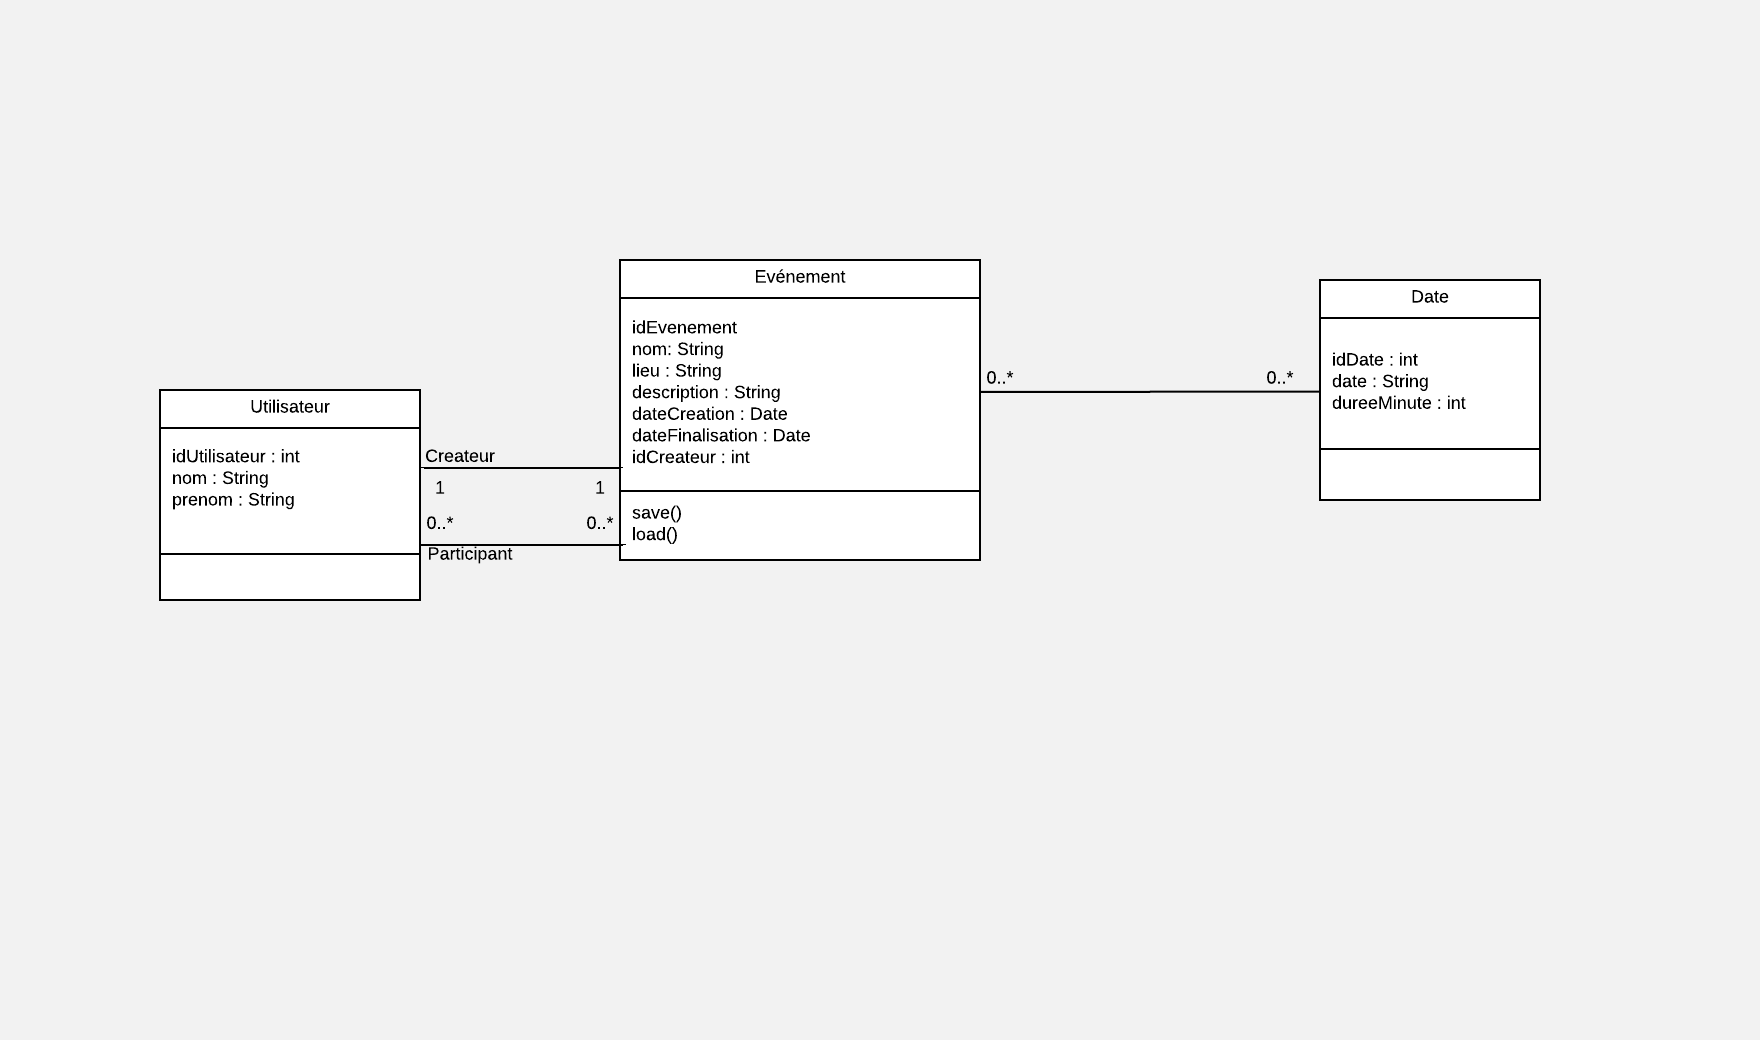
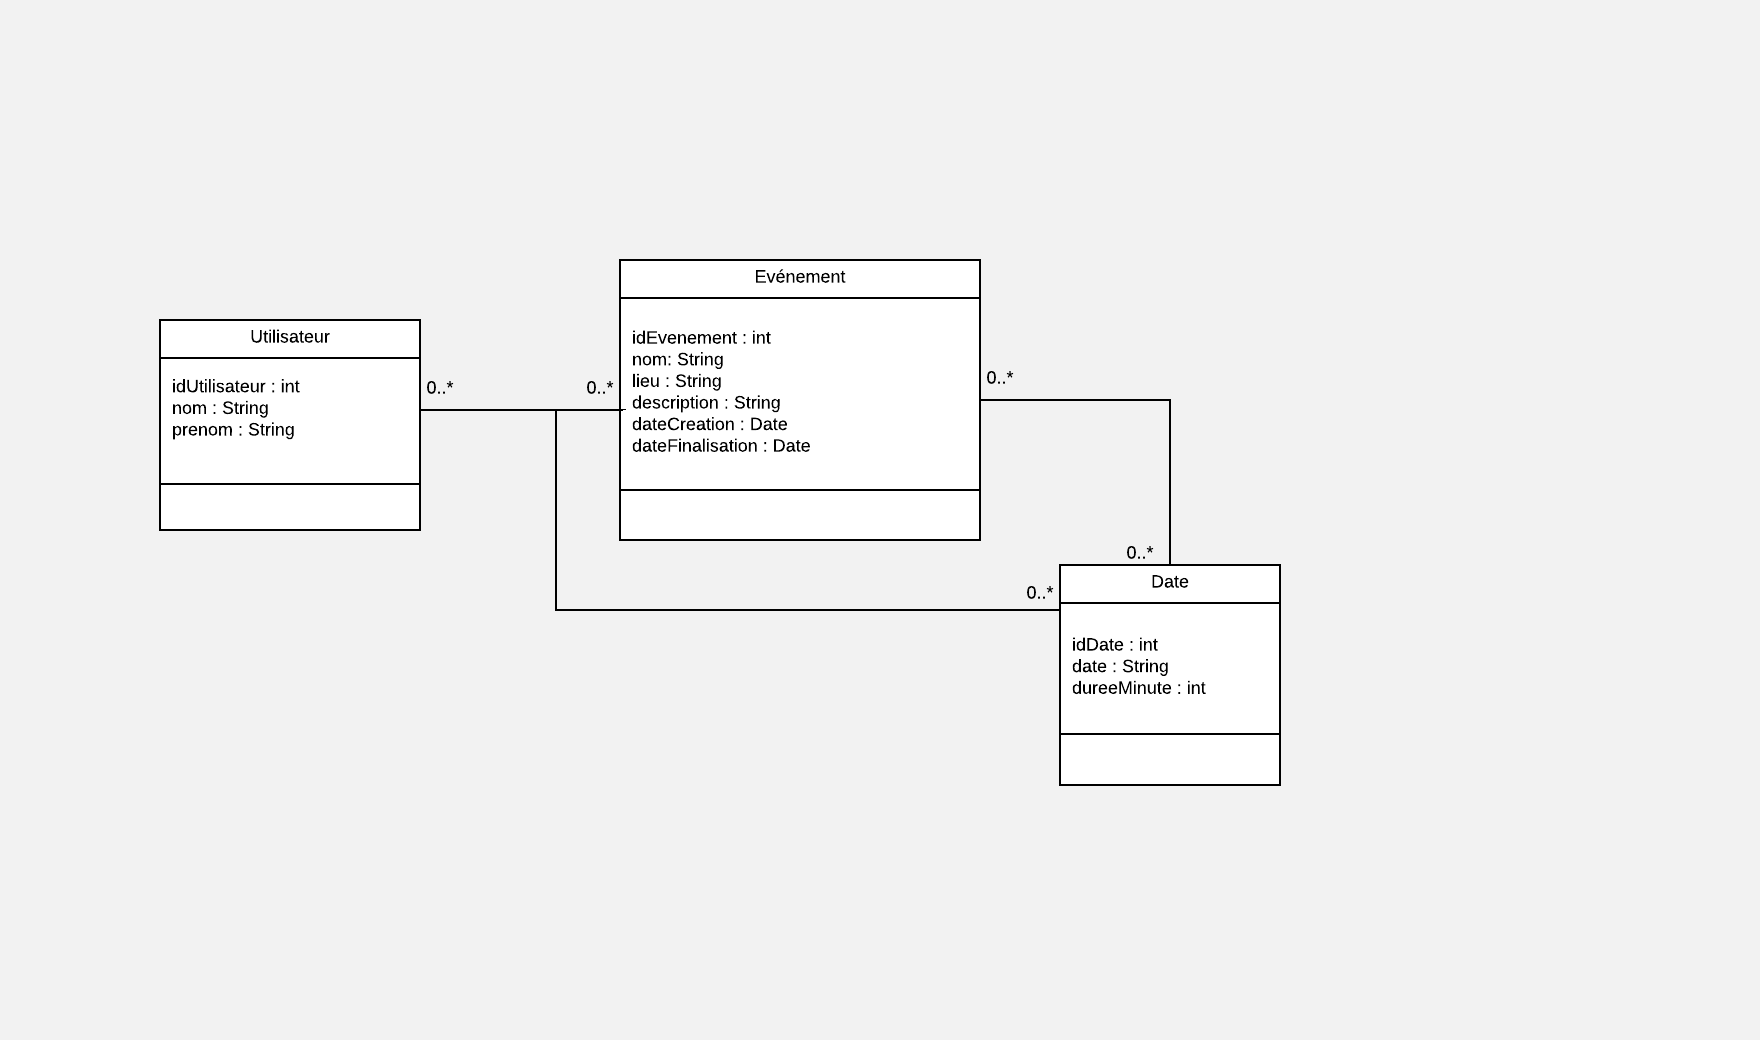
ajout classe envoyeurevenement

diff --git a/serveur/src/main/java/fr/univtln/ancyen/doodle/App.java b/serveur/src/main/java/fr/univtln/ancyen/doodle/App.java
@@ -1,8 +1,11 @@
 package fr.univtln.ancyen.doodle;
 
+import fr.univtln.ancyen.doodle.Modele.Evenement;
+import fr.univtln.ancyen.doodle.Modele.Vote;
 import java.io.IOException;
+import java.io.ObjectInputStream;
+import java.io.ObjectOutputStream;
 import java.net.InetSocketAddress;
-import java.nio.ByteBuffer;
 import java.nio.channels.SelectionKey;
 import java.nio.channels.Selector;
 import java.nio.channels.ServerSocketChannel;
@@ -13,9 +16,10 @@ import java.util.Set;
 
 public class App
 {
-    public static void main( String[] args ) throws IOException {
-        // creation bdd h2
+    private static EnvoyeurEvenement envoyeurEvenement = new EnvoyeurEvenement();
 
+    public static void main( String[] args ) throws IOException, ClassNotFoundException {
+        // creation bdd h2
 
         // creation sélecteur
         Selector selector = Selector.open();
@@ -23,10 +27,10 @@ public class App
         // creation socket et binding avec addresse
         ServerSocketChannel serverSockect = ServerSocketChannel.open();
         String hostname = "localhost";
-        int port = 4242;
+        int port = 5625;
         InetSocketAddress address = new InetSocketAddress(hostname, port);
         serverSockect.bind(address);
-        System.out.println("Serveur lancé sur le port "+port);
+        System.out.println("Serveur lancé sur le port " + port);
 
         // on met le channel en mode non-bloquant
         serverSockect.configureBlocking(false);
@@ -38,17 +42,17 @@ public class App
         SelectionKey selectionKey = serverSockect.register(selector, validops);
 
         boolean server_running = true;
-        while (server_running){
+        while (server_running) {
 
             // on crée l'ensemble des opérations en attente
             Set<SelectionKey> selectionKeys = selector.selectedKeys();
             Iterator<SelectionKey> selectionKeyIterator = selectionKeys.iterator();
 
             // on fait une boucle pour traiter toutes les ops en attente
-            while(selectionKeyIterator.hasNext()){
+            while (selectionKeyIterator.hasNext()) {
                 SelectionKey key = selectionKeyIterator.next();
 
-                if (key.isAcceptable()){
+                if (key.isAcceptable()) {
                     SocketChannel clientSocket = serverSockect.accept();
 
                     // non bloquant
@@ -57,22 +61,26 @@ public class App
                     // on l'enregistre avec une action valide de lecture
                     clientSocket.register(selector, SelectionKey.OP_READ);
                     System.out.println("Connexion aceptée: " + clientSocket.getLocalAddress());
-                }
-
-                else if (key.isReadable()){
+                } else if (key.isReadable()) {
                     SocketChannel clientSockect = (SocketChannel) key.channel();
+                    ObjectInputStream ois = new ObjectInputStream(clientSockect.socket().getInputStream());
+                    ObjectOutputStream oos = new ObjectOutputStream(clientSockect.socket().getOutputStream());
 
-                    // on crée un buffer puis on recupere dans un String
-                    ByteBuffer byteBuffer = ByteBuffer.allocate(256);
-                    clientSockect.read(byteBuffer);
-                    String result = new String(byteBuffer.array()).trim();
+                    // on switch en fonction du premier string
+                    String s = (String) ois.readObject();
 
-                    System.out.println("Message reçu: " + result);
-
-                    if (result.equals("close")) {
-                        clientSockect.close();
-                        System.out.println("Connexion fermée: " + clientSockect.getLocalAddress());
+                    if (s.equals("getEvenement") {
+                            envoyeurEvenement.send(oos, ois.readInt());
+                            }
+                    else if (s.equals("addEvenement") {
+                            evenementDAO.create((Evenement) ois.readObject());
+                        }
+                    else if (s.equals("addVote") {
+                            voteDAO.create((Vote) ois.readObject());
+                        }
                     }
+                    clientSockect.close();
+                    System.out.println("Connexion fermée: " + clientSockect.getLocalAddress());
                 }
             }
         }

diff --git a/serveur/src/main/java/fr/univtln/ancyen/doodle/Modele/Evenement.java b/serveur/src/main/java/fr/univtln/ancyen/doodle/Modele/Evenement.java
@@ -1,34 +1,37 @@
 package fr.univtln.ancyen.doodle.Modele;
 
+import fr.univtln.ancyen.doodle.PackageDAO.EvenementDAO;
+
 public class Evenement {
-    private static int cpt = 0;
+    private static int cpt = new EvenementDAO().count() + 1;
     private final int idEvenement;
     private String nom;
     private String lieu;
     private String description;
     private Date dateCreation;
     private Date dateFinalisation;
-    private final int idCreateur;
 
 
-    public Evenement(String nom, String lieu, String description, Date dateCreation, Date dateFinalisation, int idCreateur) {
+    public Evenement(String nom, String lieu, String description, Date dateCreation, Date dateFinalisation) {
         idEvenement = cpt++;
         this.nom = nom;
         this.lieu = lieu;
         this.description = description;
         this.dateCreation = dateCreation;
         this.dateFinalisation = dateFinalisation;
-        this.idCreateur = idCreateur;
     }
 
-    public Evenement(int idEvenement, String nom, String lieu, String description, Date dateCreation, Date dateFinalisation, int idCreateur) {
+    public Evenement(int idEvenement, String nom, String lieu, String description, Date dateCreation, Date dateFinalisation) {
         this.idEvenement = idEvenement;
         this.nom = nom;
         this.lieu = lieu;
         this.description = description;
         this.dateCreation = dateCreation;
         this.dateFinalisation = dateFinalisation;
-        this.idCreateur = idCreateur;
+    }
+
+    public Evenement(int idEvenement) {
+        this.idEvenement = idEvenement;
     }
 
     public int getIdEvenement() {
@@ -75,9 +78,6 @@ public class Evenement {
         this.dateFinalisation = dateFinalisation;
     }
 
-    public int getIdCreateur() {
-        return idCreateur;
-    }
 
 //    public static void save() throws IOException {
 //        FileOutputStream fos = new FileOutputStream("evenements.save");

diff --git a/serveur/src/main/java/fr/univtln/ancyen/doodle/PackageDAO/EvenementDAO.java b/serveur/src/main/java/fr/univtln/ancyen/doodle/PackageDAO/EvenementDAO.java
@@ -21,10 +21,9 @@ public class EvenementDAO extends DAO<Evenement> {
             prepare.setLong(1, evenement.getIdEvenement());
             prepare.setString(2, evenement.getNom());
             prepare.setString(3, evenement.getLieu());
-            prepare.setString(3, evenement.getDescription());
-            prepare.setObject(3, evenement.getDateCreation());
-            prepare.setObject(3, evenement.getDateFinalisation());
-            prepare.setInt(3, evenement.getIdCreateur());
+            prepare.setString(4, evenement.getDescription());
+            prepare.setObject(5, evenement.getDateCreation());
+            prepare.setObject(6, evenement.getDateFinalisation());
 
             prepare.executeUpdate();
 
@@ -51,8 +50,7 @@ public class EvenementDAO extends DAO<Evenement> {
                         result.getString("lieu"),
                         result.getString(("description")),
                         (Date) result.getObject("dateCreation"),
-                        (Date) result.getObject("dateFinalisation"),
-                        result.getInt("idCreateur")
+                        (Date) result.getObject("dateFinalisation")
                 );
 
         } catch (SQLException e) {
@@ -74,7 +72,6 @@ public class EvenementDAO extends DAO<Evenement> {
                                     + ", DESCRIPTION = " + evenement.getDescription()
                                     + ", DATECREATION = " + evenement.getDateCreation()
                                     + ", DATEFINALISATION = " + evenement.getDateFinalisation()
-                                    + ", IDCREATEUR = " + evenement.getIdCreateur()
                                     + " WHERE IDEVENEMENT = " + evenement.getIdEvenement()
                     );
 

diff --git a/serveur/src/main/java/fr/univtln/ancyen/doodle/EnvoyeurEvenement.java b/serveur/src/main/java/fr/univtln/ancyen/doodle/EnvoyeurEvenement.java
@@ -1,0 +1,38 @@
+package fr.univtln.ancyen.doodle;
+
+import fr.univtln.ancyen.doodle.Modele.*;
+import fr.univtln.ancyen.doodle.PackageDAO.*;
+
+import java.io.IOException;
+import java.io.ObjectOutputStream;
+import java.sql.SQLException;
+import java.util.ArrayList;
+import java.util.List;
+
+public class EnvoyeurEvenement {
+    private EvenementDAO evenementDAO = new EvenementDAO();
+    private VoteDAO voteDAO = new VoteDAO();
+    private DateDAO dateDAO = new DateDAO();
+    private DateEvenementDAO dateEvenementDAO = new DateEvenementDAO();
+    private UtilisateurDAO utilisateurDAO = new UtilisateurDAO();
+
+    public void send(ObjectOutputStream oos, int idEvenement) throws IOException, SQLException {
+        oos.writeObject(new Evenement(idEvenement));
+        List<Integer> idDateList = dateEvenementDAO.getByIdEvenement(idEvenement);
+        for (int idDate:idDateList
+             ) {
+            oos.writeObject("date");
+            oos.writeObject(dateDAO.find(new Date(idDate)));
+            oos.writeObject("dateEvenement");
+            oos.writeObject(new DateEvenement(idEvenement, idDate));
+        }
+        List<ArrayList<Integer>> idsList = voteDAO.getByIdEvenement(idEvenement);
+        for (ArrayList<Integer> ids:idsList
+                ) {
+            oos.writeObject("utilisateur");
+            oos.writeObject(utilisateurDAO.find(new Utilisateur(ids.get(0))));
+            oos.writeObject("vote");
+            oos.writeObject(new Vote(idEvenement, ids.get(0), ids.get(1)));
+        }
+    }
+}

diff --git a/serveur/src/main/java/fr/univtln/ancyen/doodle/Modele/Utilisateur.java b/serveur/src/main/java/fr/univtln/ancyen/doodle/Modele/Utilisateur.java
@@ -4,22 +4,18 @@ package fr.univtln.ancyen.doodle.Modele;
 import fr.univtln.ancyen.doodle.PackageDAO.UtilisateurDAO;
 
 public class Utilisateur {
-    private static int cpt = new UtilisateurDAO().count();
     private final int idUtilisateur;
     private String nom;
     private String prenom;
-
-
-    public Utilisateur(String nom, String prenom) {
-        idUtilisateur = cpt++;
-        this.nom = nom;
-        this.prenom = prenom;
-    }
 
     public Utilisateur(int idUtilisateur, String nom, String prenom) {
         this.idUtilisateur = idUtilisateur;
         this.nom = nom;
         this.prenom = prenom;
+    }
+
+    public Utilisateur(int idUtilisateur) {
+        this.idUtilisateur = idUtilisateur;
     }
 
     public int getIdUtilisateur() {
@@ -32,10 +28,6 @@ public class Utilisateur {
 
     public String getPrenom() {
         return prenom;
-    }
-
-    public void creerEvenement(String nom, String lieu, String description, Date dateCreation, Date dateFinalisation){
-        new Evenement(nom, lieu, description, dateCreation, dateFinalisation, getIdUtilisateur());
     }
 
 }

diff --git a/serveur/src/main/java/fr/univtln/ancyen/doodle/Modele/Vote.java b/serveur/src/main/java/fr/univtln/ancyen/doodle/Modele/Vote.java
@@ -9,12 +9,12 @@ import java.util.List;
 public class Vote {
     private final int idEvenement;
     private final int idParticipant;
-    private List <Date> votes = new ArrayList<>();
+    private final int idDate;
 
-    public Vote(int idEvenement, int idParticipant, List<Date> votes) {
+    public Vote(int idEvenement, int idParticipant, int idDate) {
         this.idEvenement = idEvenement;
         this.idParticipant = idParticipant;
-        this.votes = votes;
+        this.idDate= idDate;
     }
 
     public int getIdEvenement() {
@@ -25,15 +25,7 @@ public class Vote {
         return idParticipant;
     }
 
-    public List<Date> getVotes() {
-        return votes;
-    }
-
-    public static void main(String[] args) {
-        VoteDAO voteDAO =  new VoteDAO();
-        Vote vote = new Vote(1,1, null);
-        voteDAO.create(vote);
-        Vote v = voteDAO.find(vote);
-        System.out.println(v.getIdEvenement() + " " + v.getIdParticipant());
+    public int getIdDate() {
+        return idDate;
     }
 }

diff --git a/serveur/src/main/java/fr/univtln/ancyen/doodle/PackageDAO/DateEvenementDAO.java b/serveur/src/main/java/fr/univtln/ancyen/doodle/PackageDAO/DateEvenementDAO.java
@@ -5,6 +5,8 @@ import fr.univtln.ancyen.doodle.Modele.DateEvenement;
 import java.sql.PreparedStatement;
 import java.sql.ResultSet;
 import java.sql.SQLException;
+import java.util.ArrayList;
+import java.util.List;
 
 
 public class DateEvenementDAO extends DAO<DateEvenement> {
@@ -89,6 +91,20 @@ public class DateEvenementDAO extends DAO<DateEvenement> {
             e.printStackTrace();
         }
         return c;
+    }
+
+    public ArrayList<Integer> getByIdEvenement(int idEvenement) throws SQLException {
+        ArrayList<Integer> integers = new ArrayList<>();
+        ResultSet result = this.connect
+                .createStatement()
+                .executeQuery(
+                        "SELECT IDDATE from DATEEVENEMENT" +
+                                " WHERE IDEVENEMENT = " + idEvenement
+                );
+        while(result.next()){
+            integers.add(result.getInt("idDate"));
+        }
+        return integers;
     }
 
 }

diff --git a/serveur/src/main/java/fr/univtln/ancyen/doodle/PackageDAO/VoteDAO.java b/serveur/src/main/java/fr/univtln/ancyen/doodle/PackageDAO/VoteDAO.java
@@ -106,4 +106,22 @@ public class VoteDAO extends DAO<Vote> {
         return c;
     }
 
+    public ArrayList<ArrayList<Integer>> getByIdEvenement(int idEvenement) throws SQLException {
+        ArrayList<ArrayList<Integer>> outer = new ArrayList<>();
+        ArrayList<Integer> inner = new ArrayList<>();
+        ResultSet result = this.connect
+                .createStatement()
+                .executeQuery(
+                        "SELECT IDPARTICIPANT, IDDATE from VOTE" +
+                                " WHERE IDEVENEMENT = " + idEvenement
+                );
+        while(result.next()){
+            inner.add(result.getInt("idParticipant"));
+            inner.add(result.getInt("idDate"));
+            outer.add(inner);
+            inner.clear();
+        }
+        return outer;
+    }
+
 }

diff --git a/serveur/src/main/java/fr/univtln/ancyen/doodle/Modele/Date.java b/serveur/src/main/java/fr/univtln/ancyen/doodle/Modele/Date.java
@@ -4,7 +4,7 @@ package fr.univtln.ancyen.doodle.Modele;
 import fr.univtln.ancyen.doodle.PackageDAO.DateDAO;
 
 public class Date {
-    private static int cpt = new DateDAO().count();
+    private static int cpt = new DateDAO().count() + 1;
     private final int idDate;
     private String date;
     private int dureeMinute;
@@ -19,6 +19,10 @@ public class Date {
         this.idDate = idDate;
         this.date = date;
         this.dureeMinute = dureeHeure;
+    }
+
+    public Date(int idDate) {
+        this.idDate = idDate;
     }
 
     public int getIdDate() {
